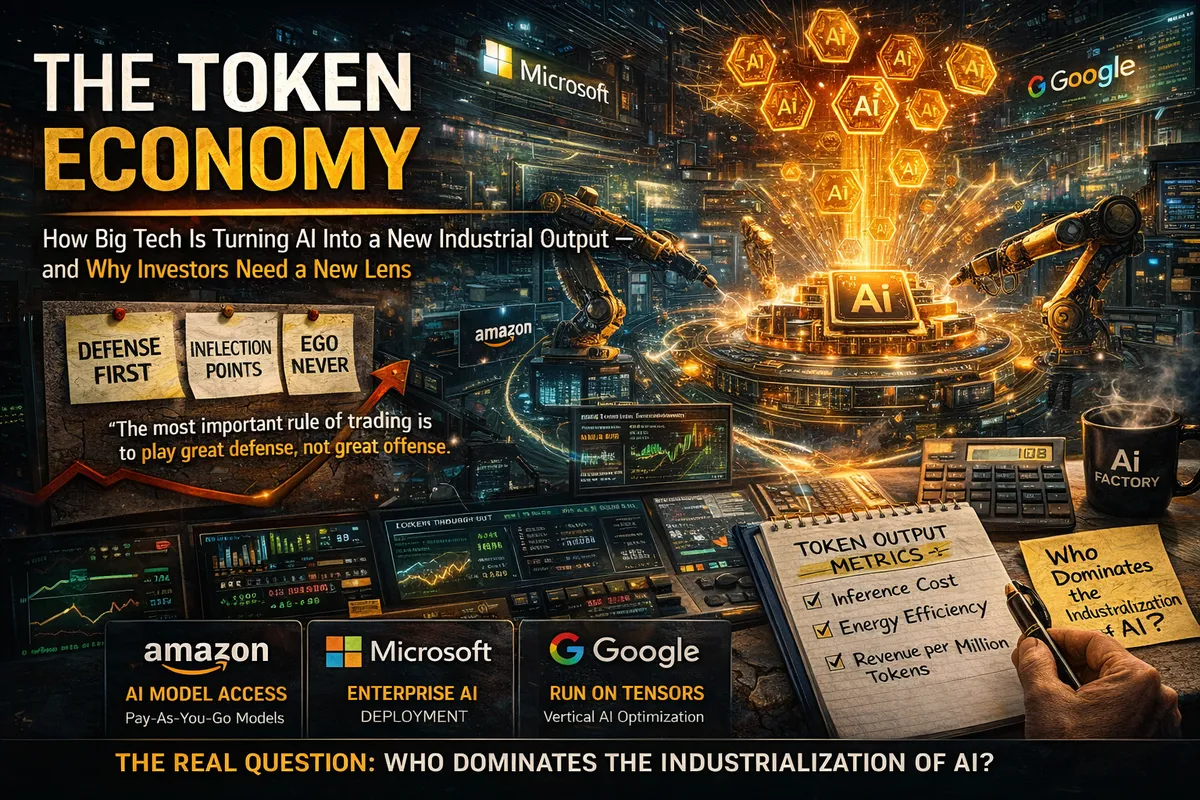
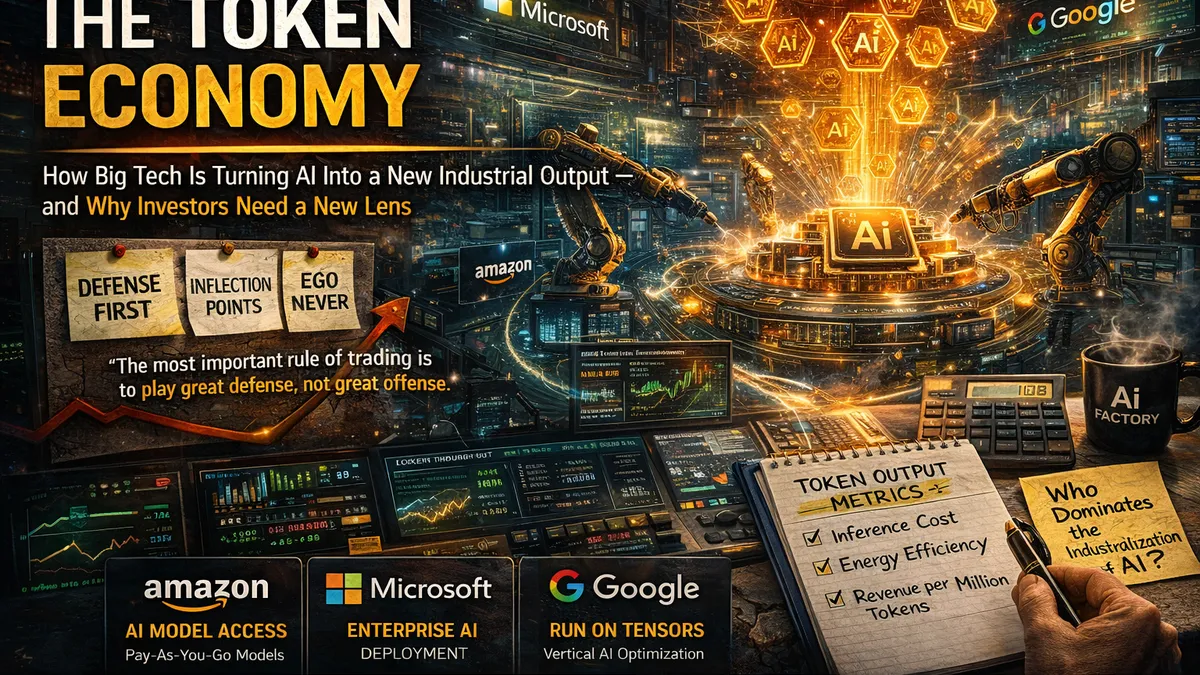
fix: Token Economy thumbnail clipping — recrop to 16:9, remove ext heuristic
Token Economy hero image was 1200x800 (3:2) displayed in a 16:9 container
with object-fit: cover, clipping ~12.5% off top and bottom.

- Recrop special-token-economy-hero.webp from source PNG to 1200x675 (16:9, centre crop)
- Remove .png extension heuristic in ReportsClient SpecialCard; standardise all
  thumbnails to aspectRatio 16/9 + objectFit cover (no more conditional branching)

Fixes clipping on: /reports index card, /reports/special-token-economy-april-2026
hero, and home page Featured Reports card.

diff --git a/src/components/ReportsClient.tsx b/src/components/ReportsClient.tsx
@@ -45,8 +45,8 @@ function SpecialCard({ r }: { r: ReportMeta }) {
   return (
     <Link href={`/reports/${r.slug}`} style={{ ...card, padding: 0, textDecoration: 'none', display: 'block', borderColor: `${r.catColor}40`, background: `linear-gradient(135deg, ${r.catColor}08, #111827)`, overflow: 'hidden' }}>
       {r.thumb && (
-        <div style={{ position: 'relative', width: '100%', aspectRatio: r.thumb.endsWith('.png') ? '3/2' : '16/9', background: '#0f172a' }}>
-          <Image src={r.thumb} alt={r.thumbAlt || r.title} fill loading="lazy" sizes="(max-width: 640px) 100vw, (max-width: 1024px) 50vw, 400px" style={{ objectFit: r.thumb.endsWith('.png') ? 'contain' : 'cover' }} />
+        <div style={{ position: 'relative', width: '100%', aspectRatio: '16/9', background: '#0f172a' }}>
+          <Image src={r.thumb} alt={r.thumbAlt || r.title} fill loading="lazy" sizes="(max-width: 640px) 100vw, (max-width: 1024px) 50vw, 400px" style={{ objectFit: 'cover' }} />
         </div>
       )}
       <div style={{ padding: '16px 22px 20px' }}>
